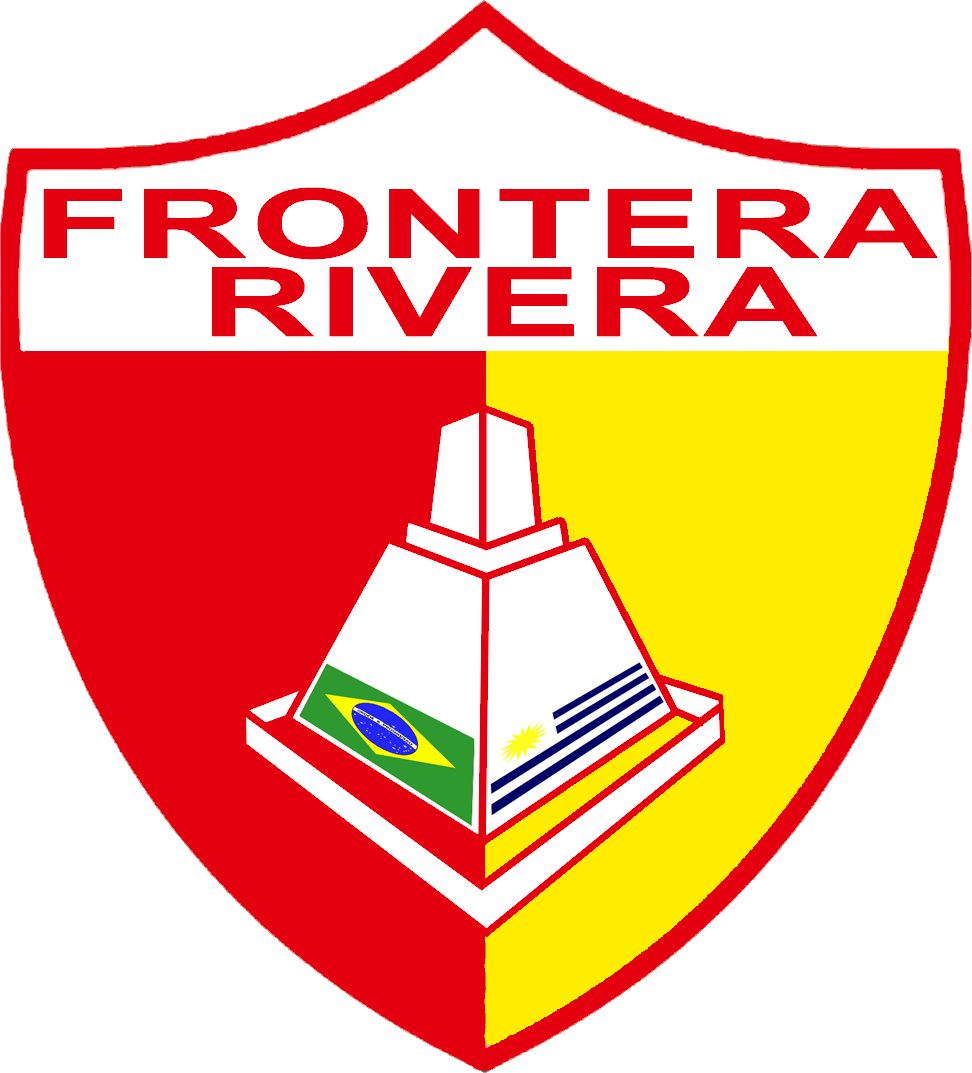
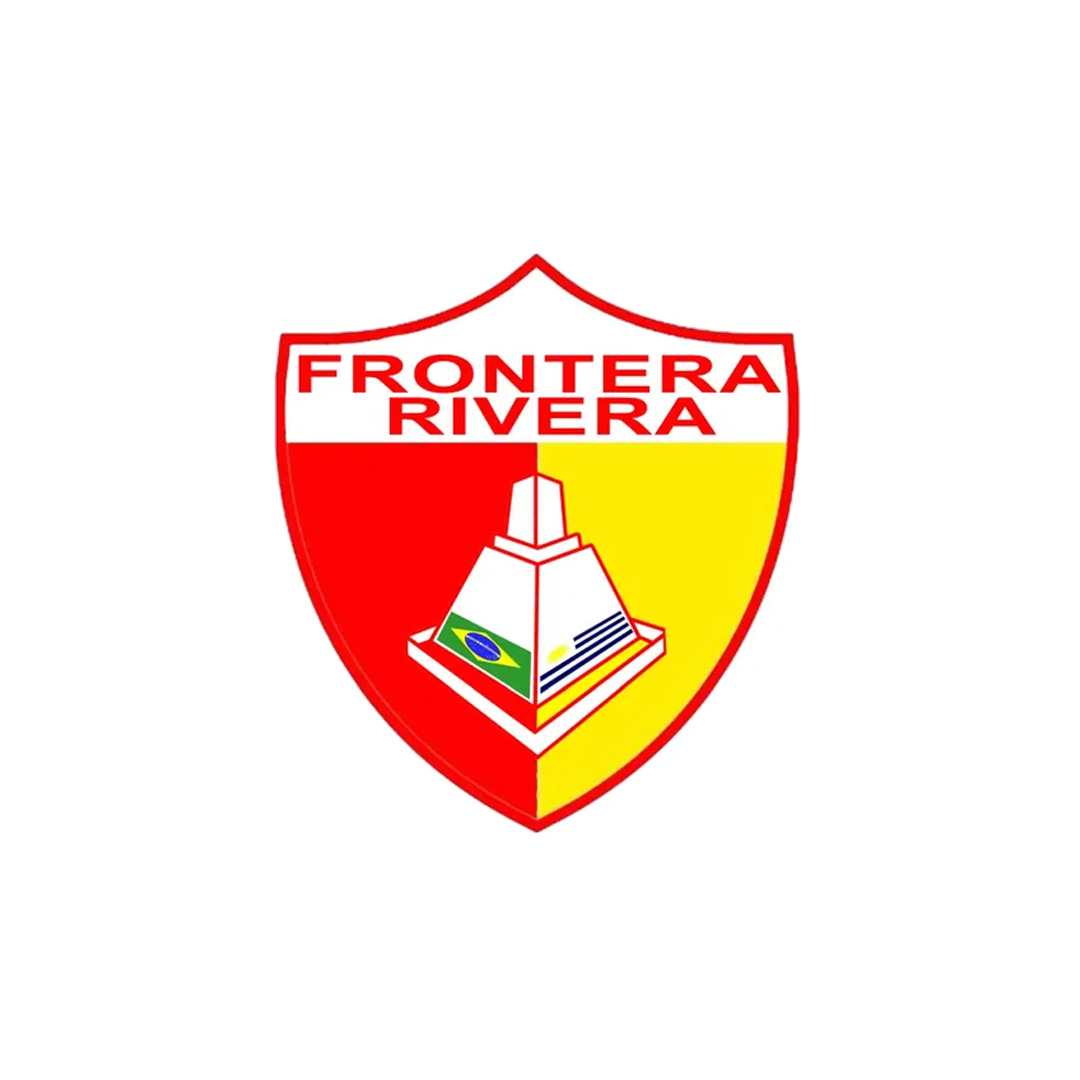
Actualizar cita completa del padre Silva, escudo remasterizado y textos de Inicio y Galería

diff --git a/index.html b/index.html
@@ -5,12 +5,12 @@
  <a href="index.html" class="brand" aria-label="Inicio Frontera Rivera"><img src="assets/img/escudo-principal.png" alt="" width="48" height="53"><span>FRONTERA<br><small>RIVERA</small></span></a>
  <nav class="nav-desktop" aria-label="Navegación principal"><a href="index.html" aria-current="page" >Inicio</a><a href="historia/index.html" >Historia</a><a href="historia/homenajes/index.html" >Homenajes</a><a href="articulos/index.html" >Artículos</a><a href="musica/index.html" >Música</a><a href="frontera-tv/index.html" >Frontera TV</a><a href="galeria/index.html" >Galería</a><a href="contacto/index.html" >Contacto</a></nav>
  <div class="header-buttons"><button class="dark-toggle" data-dark-toggle type="button" aria-label="Activar modo oscuro" aria-pressed="false"><span class="dark-symbol" aria-hidden="true">◐</span><span class="dark-label">Modo oscuro</span></button><button class="menu-toggle" type="button" id="menuToggle" aria-label="Abrir menú" aria-expanded="false" aria-controls="mobileNav"><span></span><span></span><span></span></button></div>
- </div><nav id="mobileNav" class="nav-mobile" aria-label="Navegación móvil"><div class="wrap"><a href="index.html" aria-current="page" >Inicio</a><a href="historia/index.html" >Historia</a><a href="historia/homenajes/index.html" >Homenajes</a><a href="articulos/index.html" >Artículos</a><a href="musica/index.html" >Música</a><a href="frontera-tv/index.html" >Frontera TV</a><a href="galeria/index.html" >Galería</a><a href="contacto/index.html" >Contacto</a><button class="mobile-dark" data-dark-toggle type="button" aria-pressed="false">◐ Modo oscuro</button></div></nav></header><main id="principal"><section class="hero-home"><div class="wrap hero-layout"><div class="hero-copy"><div class="hero-kicker"><i aria-hidden="true"></i> RIVERA · URUGUAY · FÚTBOL Y MEMORIA</div><h1>{{ site.data.inicio.linea1 | escape }}<br>{{ site.data.inicio.linea2 | escape }} <em>{{ site.data.inicio.destacado | escape }}</em></h1><p>{{ site.data.inicio.introduccion | escape }}</p><div class="hero-actions"><a class="button button-yellow" href="historia/index.html">Nuestra historia <span aria-hidden="true">↗</span></a><a class="button button-outline" href="articulos/index.html">Leer artículos</a></div><div class="hero-stamp"><span>Frontera Rivera</span><span>La Cuaró · Rivera Chico</span></div></div><div class="hero-photo-shell"><figure class="hero-photo"><img src="{{ site.data.inicio.portada | relative_url }}" alt="Vuelta de Frontera de 2024: un señor y una niña de la mano frente a la tribuna" loading="eager" decoding="async" class=""><figcaption>{{ site.data.inicio.credito | escape }}</figcaption></figure><span class="photo-label">LA PASIÓN NO TIENE EDAD</span></div></div></section>
+ </div><nav id="mobileNav" class="nav-mobile" aria-label="Navegación móvil"><div class="wrap"><a href="index.html" aria-current="page" >Inicio</a><a href="historia/index.html" >Historia</a><a href="historia/homenajes/index.html" >Homenajes</a><a href="articulos/index.html" >Artículos</a><a href="musica/index.html" >Música</a><a href="frontera-tv/index.html" >Frontera TV</a><a href="galeria/index.html" >Galería</a><a href="contacto/index.html" >Contacto</a><button class="mobile-dark" data-dark-toggle type="button" aria-pressed="false">◐ Modo oscuro</button></div></nav></header><main id="principal"><section class="hero-home"><div class="wrap hero-layout"><div class="hero-copy"><div class="hero-kicker"><i aria-hidden="true"></i> RIVERA · URUGUAY · FÚTBOL Y MEMORIA</div><h1>{{ site.data.inicio.linea1 | escape }}<br>{{ site.data.inicio.linea2 | escape }} <em>{{ site.data.inicio.destacado | escape }}</em></h1><p>{{ site.data.inicio.introduccion | escape }}</p><div class="hero-actions"><a class="button button-yellow" href="historia/index.html">Nuestra historia <span aria-hidden="true">↗</span></a><a class="button button-outline" href="articulos/index.html">Leer artículos</a></div><div class="hero-stamp"><span>Frontera Rivera</span><span>La Cuaró · Rivera Chico</span></div></div><div class="hero-photo-shell"><figure class="hero-photo"><img src="{{ site.data.inicio.portada | relative_url }}" alt="Vuelta de Frontera de 2024: un señor y una niña de la mano frente a la tribuna" loading="eager" decoding="async" class=""><figcaption>{{ site.data.inicio.credito | escape }}</figcaption></figure><span class="photo-label">VOLVERÁ FRONTERA A SU LUGAR</span></div></div></section>
 <div class="ticker" aria-hidden="true"><div class="ticker-track">FRONTERA RIVERA <span>✶</span> DE LA CUARÓ <span>✶</span> ROJO Y AMARILLO <span>✶</span> RIVERA CHICO <span>✶</span> FRONTERA RIVERA <span>✶</span> DE LA CUARÓ <span>✶</span> ROJO Y AMARILLO <span>✶</span> RIVERA CHICO <span>✶</span></div></div>
-<section class="section-block wrap intro-grid"><div class="editorial-block reveal"><p class="eyebrow">Un club, un barrio, una historia</p><h2>UNA IDENTIDAD QUE NO CABE EN UNA FECHA.</h2><p>En el extremo norte del Uruguay, allí donde Rivera y Santana do Livramento se encuentran, Frontera guarda algo más que resultados deportivos: guarda un pedazo de la vida de la Cuaró.</p><p>Mucho antes del fútbol profesional hubo clubes, canchas, vecinos y tradiciones que fueron dando forma a esta identidad. Cada camiseta y cada fotografía tienen una historia detrás.</p><a class="text-arrow" href="historia/index.html">Conocé nuestra historia <span>↗</span></a></div><div class="quote-block reveal"><p class="eyebrow">Palabras que quedaron</p><blockquote>“No se puede decir Frontera apareció en tal fecha y punto, porque dejaremos en el tintero toda esa salsa jugosa de un barrio que lo creó...”</blockquote><cite>Walter Silva Godoy · El padre Silva</cite><figure><img src="assets/img/hinchada.webp" alt="Tribuna de Frontera repleta de hinchas, banderas y colores" loading="lazy" decoding="async" class=""><figcaption>La hinchada de la Cuaró.</figcaption></figure></div></section>
+<section class="section-block wrap intro-grid"><div class="editorial-block reveal"><p class="eyebrow">Un club, un barrio, una historia</p><h2>UNA IDENTIDAD QUE NO CABE EN UNA FECHA.</h2><p>En el extremo norte del Uruguay, allí donde Rivera y Santana do Livramento se encuentran, Frontera guarda algo más que resultados deportivos: guarda un pedazo de la vida de la Cuaró.</p><p>Mucho antes del fútbol profesional hubo clubes, canchas, vecinos y tradiciones que fueron dando forma a esta identidad. Cada camiseta y cada fotografía tienen una historia detrás.</p><a class="text-arrow" href="historia/index.html">Conocé nuestra historia <span>↗</span></a></div><div class="quote-block reveal"><p class="eyebrow">Palabras que quedaron</p><blockquote>“No se puede decir Frontera nacío tal fecha y punto, por que dejariamos en el tintero toda esa salsa jugosa de un barrio que lo creó, le dio calor, personas, chismes, y mil anecdotas que configuran la comunidad que se las ingenia, en el conciente e inconciente para presentarse con su propio traje.”</blockquote><cite>Walter Silva Godoy · El padre Silva</cite><figure><img src="assets/img/hinchada.webp" alt="Tribuna de Frontera repleta de hinchas, banderas y colores" loading="lazy" decoding="async" class=""><figcaption>La hinchada de la Cuaró.</figcaption></figure></div></section>
 <section class="section-block wrap"><div class="section-head"><div><p class="eyebrow">Descubrí Frontera</p><h2>MÁS QUE NOVENTA MINUTOS.</h2></div><p class="section-lead">Historias, homenajes, música y recuerdos que siguen vivos.</p></div><div class="quick-grid"><a class="quick-card" href="historia/index.html"><span>01 / MEMORIA</span><h3>Historia</h3><p>Las raíces, las conquistas y el camino del rojo.</p><b aria-hidden="true">↗</b></a><a class="quick-card" href="historia/homenajes/index.html"><span>02 / PERSONAS</span><h3>Homenajes</h3><p>Las personas que ayudaron a construir esta historia.</p><b aria-hidden="true">↗</b></a><a class="quick-card" href="musica/index.html"><span>03 / SONIDOS</span><h3>Música</h3><p>La Cuaró también tiene sus propias canciones.</p><b aria-hidden="true">↗</b></a><a class="quick-card" href="frontera-tv/index.html"><span>04 / ARCHIVO</span><h3>Frontera TV</h3><p>La memoria del fútbol también se mira y se escucha.</p><b aria-hidden="true">↗</b></a></div></section>
 <section class="history-band"><div class="wrap history-band-grid"><div class="history-graphic"><img src="assets/img/ascenso-gente.webp" alt="Festejos de Frontera Rivera durante el ascenso de 1998" loading="lazy" decoding="async" class=""></div><div class="history-copy"><p class="eyebrow gold">8 NOVIEMBRE · 1998</p><h2>LA NOCHE EN QUE RIVERA NO DURMIÓ.</h2><p>Un equipo que había estado cerca de abandonar la competencia terminó conquistando un lugar en Primera División. Fue la victoria de un club, de una ciudad y de una forma de creer.</p><a class="button button-yellow" href="articulos/ascenso-1998/index.html">Leé el relato del ascenso <span>↗</span></a></div></div></section>
-<section class="section-block wrap identity-zone"><div class="section-head"><div><p class="eyebrow">Colores y símbolos</p><h2>IDENTIDAD.</h2></div><p class="section-lead">Escudos vinculados a las distintas etapas y expresiones de la historia de Frontera y Rivera Chico.</p></div><div class="identity-layout"><div class="shields"><figure class="mini-shield"><img src="assets/img/escudo-historico.png" alt="Frontera Rivera — escudo histórico" loading="lazy" decoding="async" class=""><figcaption>Frontera Rivera</figcaption></figure><figure class="mini-shield"><img src="assets/img/escudo-renegades.png" alt="Renegades FR — escudo histórico" loading="lazy" decoding="async" class=""><figcaption>Renegades FR</figcaption></figure><figure class="mini-shield"><img src="assets/img/escudo-rivera-chico.png" alt="Rivera Chico — escudo histórico" loading="lazy" decoding="async" class=""><figcaption>Rivera Chico</figcaption></figure></div><div class="identity-note"><div class="identity-number">1998</div><p>Un año que quedó marcado para siempre en la memoria del fútbol riverense.</p><a class="text-arrow" href="historia/index.html">Ver la cronología ↗</a></div></div></section>
+<section class="section-block wrap identity-zone"><div class="section-head"><div><p class="eyebrow">Colores y símbolos</p><h2>IDENTIDAD.</h2></div><p class="section-lead">Escudos vinculados a las distintas etapas y expresiones de la historia de Frontera y Rivera Chico.</p></div><div class="identity-layout"><div class="shields"><figure class="mini-shield"><img src="assets/img/escudo-historico.png?v=20261107-remaster" alt="Escudo de Frontera Rivera remasterizado" loading="lazy" decoding="async" class=""><figcaption>Frontera Rivera</figcaption></figure><figure class="mini-shield"><img src="assets/img/escudo-renegades.png" alt="Renegades FR — escudo histórico" loading="lazy" decoding="async" class=""><figcaption>Renegades FR</figcaption></figure><figure class="mini-shield"><img src="assets/img/escudo-rivera-chico.png" alt="Rivera Chico — escudo histórico" loading="lazy" decoding="async" class=""><figcaption>Rivera Chico</figcaption></figure></div><div class="identity-note"><div class="identity-number">1998</div><p>Un año que quedó marcado para siempre en la memoria del fútbol riverense.</p><a class="text-arrow" href="historia/index.html">Ver la cronología ↗</a></div></div></section>
 <section class="section-block wrap"><div class="section-head"><div><p class="eyebrow">El archivo escrito</p><h2>HISTORIAS PARA LEER.</h2></div><p class="section-lead">El fútbol también se cuenta en versos, recuerdos y crónicas.</p></div><div class="article-cards"><a class="article-feature red" href="articulos/ascenso-1998/index.html"><div class="article-feature-top">ARCHIVO / 1998 <span>↗</span></div><h3>LA NOCHE EN QUE RIVERA NO DURMIÓ</h3><p>El día en que los rojos de la Cuaró hicieron historia.</p></a><a class="article-feature cream" href="articulos/la-cuaro/index.html"><div class="article-feature-top">POESÍA / ROBERTO ARAUJO <span>↗</span></div><h3>LA CUARÓ.<small>¿LEYENDA O VERDAD?</small></h3><p>Historias del barrio contadas entre versos y humor.</p></a><a class="article-feature yellow" href="articulos/el-santo-de-rivera/index.html"><div class="article-feature-top">MEMORIA / FACUNDO <span>↗</span></div><h3>EL SANTO DE RIVERA</h3><p>El padre Silva, las campanas y una historia entrañable.</p></a></div></section>
 <section class="section-block wrap"><div class="section-head"><div><p class="eyebrow">Fotografías</p><h2>EL ROJO EN IMÁGENES.</h2></div><p class="section-lead">Fotografías del ascenso, la hinchada y distintas etapas del club.</p></div><div class="home-gallery"><figure><img src="assets/img/galeria-nacional.webp" alt="Rubén Sosa y Rubén Paz con árbitros en el Estadio Atilio Paiva Olivera" loading="lazy" decoding="async" class=""><figcaption>Nacional y Frontera en Rivera.</figcaption></figure><figure><img src="assets/img/galeria-jugadores.webp" alt="Jugadores de Frontera festejando un gol contra Peñarol" loading="lazy" decoding="async" class=""><figcaption>Frontera festeja un gol.</figcaption></figure><figure><img src="assets/img/galeria-ascenso-festejos.webp" alt="Futbolistas de Frontera celebrando el ascenso de 1998" loading="lazy" decoding="async" class=""><figcaption>Festejos del ascenso de 1998.</figcaption></figure></div><a class="button button-red" href="galeria/index.html">Ver toda la galería <span>↗</span></a></section>
 <section class="section-block wrap music-teaser"><div><p class="eyebrow">El sonido de la Cuaró</p><h2>ESTO TAMBIÉN<br>SE CANTA.</h2><p>Milongones, candombe y canciones que acompañan al rojo.</p><a class="button button-red" href="musica/index.html">Escuchá la música ↗</a></div><img src="assets/img/diablito.png" alt="El Diablito, mascota de Frontera Rivera" loading="lazy" decoding="async" class=""></section></main><footer class="footer-full"><div class="wrap footer-content"><div class="footer-top"><div class="footer-identity"><img src="assets/img/escudo-principal.png" alt="Escudo Frontera Rivera" width="80" height="88"><div><strong>FRONTERA<br>RIVERA</strong><p>El rojo de la Cuaró.<br>Fútbol, historia y memoria.</p></div></div><div class="footer-col"><h3>Explorá</h3><a href="historia/index.html">Historia</a><a href="historia/homenajes/index.html">Homenajes</a><a href="articulos/index.html">Artículos</a><a href="musica/index.html">Música</a></div><div class="footer-col"><h3>Seguinos</h3><div class="footer-social"><a href="https://www.instagram.com/cfronterarivera?utm_source=ig_web_button_share_sheet&vrfl=ZDNlZDc0MzIxNw==" target="_blank" rel="noopener noreferrer"><span aria-hidden="true">◎</span> Instagram</a><a href="https://www.facebook.com/fronterariveraclub/" target="_blank" rel="noopener noreferrer"><span aria-hidden="true">f</span> Facebook</a><a href="https://www.youtube.com/@fronterarivera" target="_blank" rel="noopener noreferrer"><span aria-hidden="true">▶</span> Frontera TV</a></div></div></div><div class="footer-cta"><div><strong>¿TENÉS ALGO PARA CONTARNOS?</strong><p>Una fotografía, una historia, un recuerdo de Frontera o de la Cuaró.</p></div><a class="button button-light" href="contacto/index.html">Escribinos <span aria-hidden="true">↗</span></a></div><div class="footer-last"><span>Página de Frontera rivera por Agustin :)</span><a href="mailto:clubfronterarivera@gmail.com">clubfronterarivera@gmail.com</a></div></div></footer><script src="assets/app.js" defer></script></body></html>

diff --git a/historia/index.html b/historia/index.html
@@ -3,6 +3,6 @@
  <a href="../index.html" class="brand" aria-label="Inicio Frontera Rivera"><img src="../assets/img/escudo-principal.png" alt="" width="48" height="53"><span>FRONTERA<br><small>RIVERA</small></span></a>
  <nav class="nav-desktop" aria-label="Navegación principal"><a href="../index.html" >Inicio</a><a href="../historia/index.html" aria-current="page" >Historia</a><a href="../historia/homenajes/index.html" >Homenajes</a><a href="../articulos/index.html" >Artículos</a><a href="../musica/index.html" >Música</a><a href="../frontera-tv/index.html" >Frontera TV</a><a href="../galeria/index.html" >Galería</a><a href="../contacto/index.html" >Contacto</a></nav>
  <div class="header-buttons"><button class="dark-toggle" data-dark-toggle type="button" aria-label="Activar modo oscuro" aria-pressed="false"><span class="dark-symbol" aria-hidden="true">◐</span><span class="dark-label">Modo oscuro</span></button><button class="menu-toggle" type="button" id="menuToggle" aria-label="Abrir menú" aria-expanded="false" aria-controls="mobileNav"><span></span><span></span><span></span></button></div>
- </div><nav id="mobileNav" class="nav-mobile" aria-label="Navegación móvil"><div class="wrap"><a href="../index.html" >Inicio</a><a href="../historia/index.html" aria-current="page" >Historia</a><a href="../historia/homenajes/index.html" >Homenajes</a><a href="../articulos/index.html" >Artículos</a><a href="../musica/index.html" >Música</a><a href="../frontera-tv/index.html" >Frontera TV</a><a href="../galeria/index.html" >Galería</a><a href="../contacto/index.html" >Contacto</a><button class="mobile-dark" data-dark-toggle type="button" aria-pressed="false">◐ Modo oscuro</button></div></nav></header><main id="principal"><section class="page-hero wrap"><div class="eyebrow">FRONTERA / ARCHIVO</div><h1>NUESTRA HISTORIA.</h1><p>Un relato tejido entre vecinos, clubes, fotografías y generaciones de Rivera Chico.</p><div class="hero-star" aria-hidden="true">★</div></section><section class="section-block wrap reading-layout"><div><p class="eyebrow">Una historia que empezó mucho antes</p><h2>DE LA CUARÓ AL FÚTBOL NACIONAL.</h2><div class="body-prose"><p>En el extremo norte del Uruguay, allí donde Rivera y Santana do Livramento se encuentran sin que una frontera consiga separar del todo sus costumbres, sus voces y sus tradiciones, nació una historia profundamente ligada al barrio Rivera Chico, a sus calles, a sus familias y a su gente.</p><p>La historia de Frontera no tiene un comienzo exacto. Sus raíces se pierden en la memoria del barrio. En Rivera Chico existió, tiempo atrás, otro club llamado Frontera, que defendía colores diferentes a los actuales. También hubo clubes hermanos, como el recordado Bohemio de Nenito Araujo o el San Eugenio, que formaron parte de aquel universo de clubes, vecinos y futbolistas que daban vida a las canchas del barrio.</p><p>Eran tiempos de un fútbol profundamente popular, hecho por su propia gente, donde los clubes nacían, se transformaban y dejaban huellas que sobrevivían a sus nombres.</p><p>En 1932 se fundó el Club Social Rivera Chico. En 1973, la unión de Rivera Chico y el Club Atlético Fronteras dio nacimiento al Club Social y Deportivo Frontera Rivera Chico, consolidando una identidad que ya tenía colores, hinchas y un lugar propio en el fútbol riverense.</p><p>El rojo y el amarillo, la calle Cuaró y una forma muy particular de sentir el fútbol se convirtieron en símbolos de pertenencia. Porque Frontera nunca fue solamente lo que sucedía dentro de una cancha. También fue la conversación en la vereda, la bandera colgada en una casa, la radio encendida un domingo y las historias que pasaban de padres a hijos.</p><p>En 1995, Frontera Rivera Chico alcanzó la final de la Copa Nacional de Clubes y participó en la Liguilla Pre-Libertadores. Años después, Frontera Rivera Fútbol Club continuó esa identidad en el fútbol profesional. El 8 de noviembre de 1998 llegó el ascenso a Primera División.</p><p>Tras más de dos décadas fuera de las competiciones de la AUF, el regreso en 2024 abrió otro capítulo. Frontera sigue siendo una manera de sentir, de recordar y de pertenecer.</p></div></div><aside class="story-aside"><figure><img src="../assets/img/ascenso-plantel.webp" alt="Plantel de Frontera Rivera con su uniforme rojo" loading="lazy" decoding="async" class=""><figcaption>Una imagen del archivo futbolero de Frontera.</figcaption></figure><div class="paper-quote"><p>“No se puede decir Frontera apareció en tal fecha y punto...”</p><strong>Walter Silva Godoy · El padre Silva</strong></div></aside></section>
+ </div><nav id="mobileNav" class="nav-mobile" aria-label="Navegación móvil"><div class="wrap"><a href="../index.html" >Inicio</a><a href="../historia/index.html" aria-current="page" >Historia</a><a href="../historia/homenajes/index.html" >Homenajes</a><a href="../articulos/index.html" >Artículos</a><a href="../musica/index.html" >Música</a><a href="../frontera-tv/index.html" >Frontera TV</a><a href="../galeria/index.html" >Galería</a><a href="../contacto/index.html" >Contacto</a><button class="mobile-dark" data-dark-toggle type="button" aria-pressed="false">◐ Modo oscuro</button></div></nav></header><main id="principal"><section class="page-hero wrap"><div class="eyebrow">FRONTERA / ARCHIVO</div><h1>NUESTRA HISTORIA.</h1><p>Un relato tejido entre vecinos, clubes, fotografías y generaciones de Rivera Chico.</p><div class="hero-star" aria-hidden="true">★</div></section><section class="section-block wrap reading-layout"><div><p class="eyebrow">Una historia que empezó mucho antes</p><h2>DE LA CUARÓ AL FÚTBOL NACIONAL.</h2><div class="body-prose"><p>En el extremo norte del Uruguay, allí donde Rivera y Santana do Livramento se encuentran sin que una frontera consiga separar del todo sus costumbres, sus voces y sus tradiciones, nació una historia profundamente ligada al barrio Rivera Chico, a sus calles, a sus familias y a su gente.</p><p>La historia de Frontera no tiene un comienzo exacto. Sus raíces se pierden en la memoria del barrio. En Rivera Chico existió, tiempo atrás, otro club llamado Frontera, que defendía colores diferentes a los actuales. También hubo clubes hermanos, como el recordado Bohemio de Nenito Araujo o el San Eugenio, que formaron parte de aquel universo de clubes, vecinos y futbolistas que daban vida a las canchas del barrio.</p><p>Eran tiempos de un fútbol profundamente popular, hecho por su propia gente, donde los clubes nacían, se transformaban y dejaban huellas que sobrevivían a sus nombres.</p><p>En 1932 se fundó el Club Social Rivera Chico. En 1973, la unión de Rivera Chico y el Club Atlético Fronteras dio nacimiento al Club Social y Deportivo Frontera Rivera Chico, consolidando una identidad que ya tenía colores, hinchas y un lugar propio en el fútbol riverense.</p><p>El rojo y el amarillo, la calle Cuaró y una forma muy particular de sentir el fútbol se convirtieron en símbolos de pertenencia. Porque Frontera nunca fue solamente lo que sucedía dentro de una cancha. También fue la conversación en la vereda, la bandera colgada en una casa, la radio encendida un domingo y las historias que pasaban de padres a hijos.</p><p>En 1995, Frontera Rivera Chico alcanzó la final de la Copa Nacional de Clubes y participó en la Liguilla Pre-Libertadores. Años después, Frontera Rivera Fútbol Club continuó esa identidad en el fútbol profesional. El 8 de noviembre de 1998 llegó el ascenso a Primera División.</p><p>Tras más de dos décadas fuera de las competiciones de la AUF, el regreso en 2024 abrió otro capítulo. Frontera sigue siendo una manera de sentir, de recordar y de pertenecer.</p></div></div><aside class="story-aside"><figure><img src="../assets/img/ascenso-plantel.webp" alt="Plantel de Frontera Rivera con su uniforme rojo" loading="lazy" decoding="async" class=""><figcaption>Una imagen del archivo futbolero de Frontera.</figcaption></figure><div class="paper-quote"><p>“No se puede decir Frontera nacío tal fecha y punto, por que dejariamos en el tintero toda esa salsa jugosa de un barrio que lo creó, le dio calor, personas, chismes, y mil anecdotas que configuran la comunidad que se las ingenia, en el conciente e inconciente para presentarse con su propio traje.”</p><strong>Walter Silva Godoy · El padre Silva</strong></div></aside></section>
 <section class="section-block wrap"><div class="section-head"><div><p class="eyebrow">Fechas que cuentan</p><h2>CRONOLOGÍA.</h2></div><p class="section-lead">Una línea de tiempo que seguirá creciendo con el archivo del club.</p></div><div class="timeline"><article><time>1932</time><div><h3>Club Social Rivera Chico</h3><p>Uno de los antecedentes barriales de esta historia colectiva.</p></div></article><article><time>1973</time><div><h3>Frontera Rivera Chico</h3><p>La unión de instituciones que consolidó una identidad futbolera.</p></div></article><article><time>1995</time><div><h3>Presencia nacional</h3><p>La final de la Copa Nacional de Clubes y la Liguilla Pre-Libertadores.</p></div></article><article><time>1998</time><div><h3>El ascenso</h3><p>8 de noviembre: Frontera alcanza la Primera División profesional.</p></div></article><article><time>2024</time><div><h3>La vuelta</h3><p>El regreso a las competiciones de la AUF.</p></div></article></div></section>
 <section class="section-block wrap"><div class="section-head"><div><p class="eyebrow">Nuestra gente</p><h2>HOMENAJES.</h2></div><p class="section-lead">Las personas de Frontera y del barrio merecen tener su lugar.</p></div><div class="story-cta"><img src="../assets/img/jose-sandin.webp" alt="José Sandín Alvez alentando desde la tribuna" loading="lazy" decoding="async" class=""><div><h3>LA HISTORIA TAMBIÉN TIENE NOMBRES.</h3><p>Hinchas, vecinos, dirigentes y personas que construyeron una comunidad.</p><a class="button button-red" href="../historia/homenajes/index.html">Conocé los homenajes ↗</a></div></div></section></main><footer class="footer-full"><div class="wrap footer-content"><div class="footer-top"><div class="footer-identity"><img src="../assets/img/escudo-principal.png" alt="Escudo Frontera Rivera" width="80" height="88"><div><strong>FRONTERA<br>RIVERA</strong><p>El rojo de la Cuaró.<br>Fútbol, historia y memoria.</p></div></div><div class="footer-col"><h3>Explorá</h3><a href="../historia/index.html">Historia</a><a href="../historia/homenajes/index.html">Homenajes</a><a href="../articulos/index.html">Artículos</a><a href="../musica/index.html">Música</a></div><div class="footer-col"><h3>Seguinos</h3><div class="footer-social"><a href="https://www.instagram.com/cfronterarivera?utm_source=ig_web_button_share_sheet&vrfl=ZDNlZDc0MzIxNw==" target="_blank" rel="noopener noreferrer"><span aria-hidden="true">◎</span> Instagram</a><a href="https://www.facebook.com/fronterariveraclub/" target="_blank" rel="noopener noreferrer"><span aria-hidden="true">f</span> Facebook</a><a href="https://www.youtube.com/@fronterarivera" target="_blank" rel="noopener noreferrer"><span aria-hidden="true">▶</span> Frontera TV</a></div></div></div><div class="footer-cta"><div><strong>¿TENÉS ALGO PARA CONTARNOS?</strong><p>Una fotografía, una historia, un recuerdo de Frontera o de la Cuaró.</p></div><a class="button button-light" href="../contacto/index.html">Escribinos <span aria-hidden="true">↗</span></a></div><div class="footer-last"><span>Página de Frontera rivera por Agustin :)</span><a href="mailto:clubfronterarivera@gmail.com">clubfronterarivera@gmail.com</a></div></div></footer><script src="../assets/app.js" defer></script></body></html>

diff --git a/galeria/index.html b/galeria/index.html
@@ -5,4 +5,4 @@
  <a href="../index.html" class="brand" aria-label="Inicio Frontera Rivera"><img src="../assets/img/escudo-principal.png" alt="" width="48" height="53"><span>FRONTERA<br><small>RIVERA</small></span></a>
  <nav class="nav-desktop" aria-label="Navegación principal"><a href="../index.html" >Inicio</a><a href="../historia/index.html" >Historia</a><a href="../historia/homenajes/index.html" >Homenajes</a><a href="../articulos/index.html" >Artículos</a><a href="../musica/index.html" >Música</a><a href="../frontera-tv/index.html" >Frontera TV</a><a href="../galeria/index.html" aria-current="page" >Galería</a><a href="../contacto/index.html" >Contacto</a></nav>
  <div class="header-buttons"><button class="dark-toggle" data-dark-toggle type="button" aria-label="Activar modo oscuro" aria-pressed="false"><span class="dark-symbol" aria-hidden="true">◐</span><span class="dark-label">Modo oscuro</span></button><button class="menu-toggle" type="button" id="menuToggle" aria-label="Abrir menú" aria-expanded="false" aria-controls="mobileNav"><span></span><span></span><span></span></button></div>
- </div><nav id="mobileNav" class="nav-mobile" aria-label="Navegación móvil"><div class="wrap"><a href="../index.html" >Inicio</a><a href="../historia/index.html" >Historia</a><a href="../historia/homenajes/index.html" >Homenajes</a><a href="../articulos/index.html" >Artículos</a><a href="../musica/index.html" >Música</a><a href="../frontera-tv/index.html" >Frontera TV</a><a href="../galeria/index.html" aria-current="page" >Galería</a><a href="../contacto/index.html" >Contacto</a><button class="mobile-dark" data-dark-toggle type="button" aria-pressed="false">◐ Modo oscuro</button></div></nav></header><main id="principal"><section class="page-hero wrap"><div class="eyebrow">MEMORIA / FOTOGRAFÍAS</div><h1>GALERÍA.</h1><p>Una colección de fotografías de Frontera Rivera, su hinchada y momentos que forman parte de su historia.</p><div class="hero-star" aria-hidden="true">★</div></section><section class="section-block wrap"><div class="section-head"><div><p class="eyebrow">Archivo fotográfico</p><h2>IMÁGENES QUE QUEDARON.</h2></div><p class="section-lead">Todas las fotografías se muestran completas, sin recortar sus bordes.</p></div><div class="photo-masonry">{% for foto in site.data.galeria %}<figure class="gallery-item"><button class="image-expand" type="button" data-lightbox="{{ foto.image | remove_first: '/' | escape }}" data-caption="{{ foto.title | escape }} — {{ foto.description | escape }}" aria-label="Ampliar imagen: {{ foto.title | escape }}"><img src="{{ foto.image | relative_url }}" alt="{{ foto.description | default: foto.title | escape }}" loading="lazy" decoding="async"><span aria-hidden="true">↗</span></button><figcaption><strong>{{ foto.title | escape }}</strong><p>{{ foto.description | escape }}</p></figcaption></figure>{% endfor %}</div></section><dialog id="lightbox" class="lightbox"><button type="button" id="closeLightbox" aria-label="Cerrar imagen ampliada">×</button><img src="" alt=""><p></p></dialog></main><footer class="footer-full"><div class="wrap footer-content"><div class="footer-top"><div class="footer-identity"><img src="../assets/img/escudo-principal.png" alt="Escudo Frontera Rivera" width="80" height="88"><div><strong>FRONTERA<br>RIVERA</strong><p>El rojo de la Cuaró.<br>Fútbol, historia y memoria.</p></div></div><div class="footer-col"><h3>Explorá</h3><a href="../historia/index.html">Historia</a><a href="../historia/homenajes/index.html">Homenajes</a><a href="../articulos/index.html">Artículos</a><a href="../musica/index.html">Música</a></div><div class="footer-col"><h3>Seguinos</h3><div class="footer-social"><a href="https://www.instagram.com/cfronterarivera?utm_source=ig_web_button_share_sheet&vrfl=ZDNlZDc0MzIxNw==" target="_blank" rel="noopener noreferrer"><span aria-hidden="true">◎</span> Instagram</a><a href="https://www.facebook.com/fronterariveraclub/" target="_blank" rel="noopener noreferrer"><span aria-hidden="true">f</span> Facebook</a><a href="https://www.youtube.com/@fronterarivera" target="_blank" rel="noopener noreferrer"><span aria-hidden="true">▶</span> Frontera TV</a></div></div></div><div class="footer-cta"><div><strong>¿TENÉS ALGO PARA CONTARNOS?</strong><p>Una fotografía, una historia, un recuerdo de Frontera o de la Cuaró.</p></div><a class="button button-light" href="../contacto/index.html">Escribinos <span aria-hidden="true">↗</span></a></div><div class="footer-last"><span>Página de Frontera rivera por Agustin :)</span><a href="mailto:clubfronterarivera@gmail.com">clubfronterarivera@gmail.com</a></div></div></footer><script src="../assets/app.js" defer></script></body></html>
+ </div><nav id="mobileNav" class="nav-mobile" aria-label="Navegación móvil"><div class="wrap"><a href="../index.html" >Inicio</a><a href="../historia/index.html" >Historia</a><a href="../historia/homenajes/index.html" >Homenajes</a><a href="../articulos/index.html" >Artículos</a><a href="../musica/index.html" >Música</a><a href="../frontera-tv/index.html" >Frontera TV</a><a href="../galeria/index.html" aria-current="page" >Galería</a><a href="../contacto/index.html" >Contacto</a><button class="mobile-dark" data-dark-toggle type="button" aria-pressed="false">◐ Modo oscuro</button></div></nav></header><main id="principal"><section class="page-hero wrap"><div class="eyebrow">MEMORIA / FOTOGRAFÍAS</div><h1>GALERÍA.</h1><p>Una colección de fotografías de Frontera Rivera, su hinchada y momentos que forman parte de su historia.</p><div class="hero-star" aria-hidden="true">★</div></section><section class="section-block wrap"><div class="section-head"><div><p class="eyebrow">Archivo fotográfico</p><h2>IMÁGENES QUE QUEDARON.</h2></div><p class="section-lead">Rinconcito de recuerdos rojos</p></div><div class="photo-masonry">{% for foto in site.data.galeria %}<figure class="gallery-item"><button class="image-expand" type="button" data-lightbox="{{ foto.image | remove_first: '/' | escape }}" data-caption="{{ foto.title | escape }} — {{ foto.description | escape }}" aria-label="Ampliar imagen: {{ foto.title | escape }}"><img src="{{ foto.image | relative_url }}" alt="{{ foto.description | default: foto.title | escape }}" loading="lazy" decoding="async"><span aria-hidden="true">↗</span></button><figcaption><strong>{{ foto.title | escape }}</strong><p>{{ foto.description | escape }}</p></figcaption></figure>{% endfor %}</div></section><dialog id="lightbox" class="lightbox"><button type="button" id="closeLightbox" aria-label="Cerrar imagen ampliada">×</button><img src="" alt=""><p></p></dialog></main><footer class="footer-full"><div class="wrap footer-content"><div class="footer-top"><div class="footer-identity"><img src="../assets/img/escudo-principal.png" alt="Escudo Frontera Rivera" width="80" height="88"><div><strong>FRONTERA<br>RIVERA</strong><p>El rojo de la Cuaró.<br>Fútbol, historia y memoria.</p></div></div><div class="footer-col"><h3>Explorá</h3><a href="../historia/index.html">Historia</a><a href="../historia/homenajes/index.html">Homenajes</a><a href="../articulos/index.html">Artículos</a><a href="../musica/index.html">Música</a></div><div class="footer-col"><h3>Seguinos</h3><div class="footer-social"><a href="https://www.instagram.com/cfronterarivera?utm_source=ig_web_button_share_sheet&vrfl=ZDNlZDc0MzIxNw==" target="_blank" rel="noopener noreferrer"><span aria-hidden="true">◎</span> Instagram</a><a href="https://www.facebook.com/fronterariveraclub/" target="_blank" rel="noopener noreferrer"><span aria-hidden="true">f</span> Facebook</a><a href="https://www.youtube.com/@fronterarivera" target="_blank" rel="noopener noreferrer"><span aria-hidden="true">▶</span> Frontera TV</a></div></div></div><div class="footer-cta"><div><strong>¿TENÉS ALGO PARA CONTARNOS?</strong><p>Una fotografía, una historia, un recuerdo de Frontera o de la Cuaró.</p></div><a class="button button-light" href="../contacto/index.html">Escribinos <span aria-hidden="true">↗</span></a></div><div class="footer-last"><span>Página de Frontera rivera por Agustin :)</span><a href="mailto:clubfronterarivera@gmail.com">clubfronterarivera@gmail.com</a></div></div></footer><script src="../assets/app.js" defer></script></body></html>
